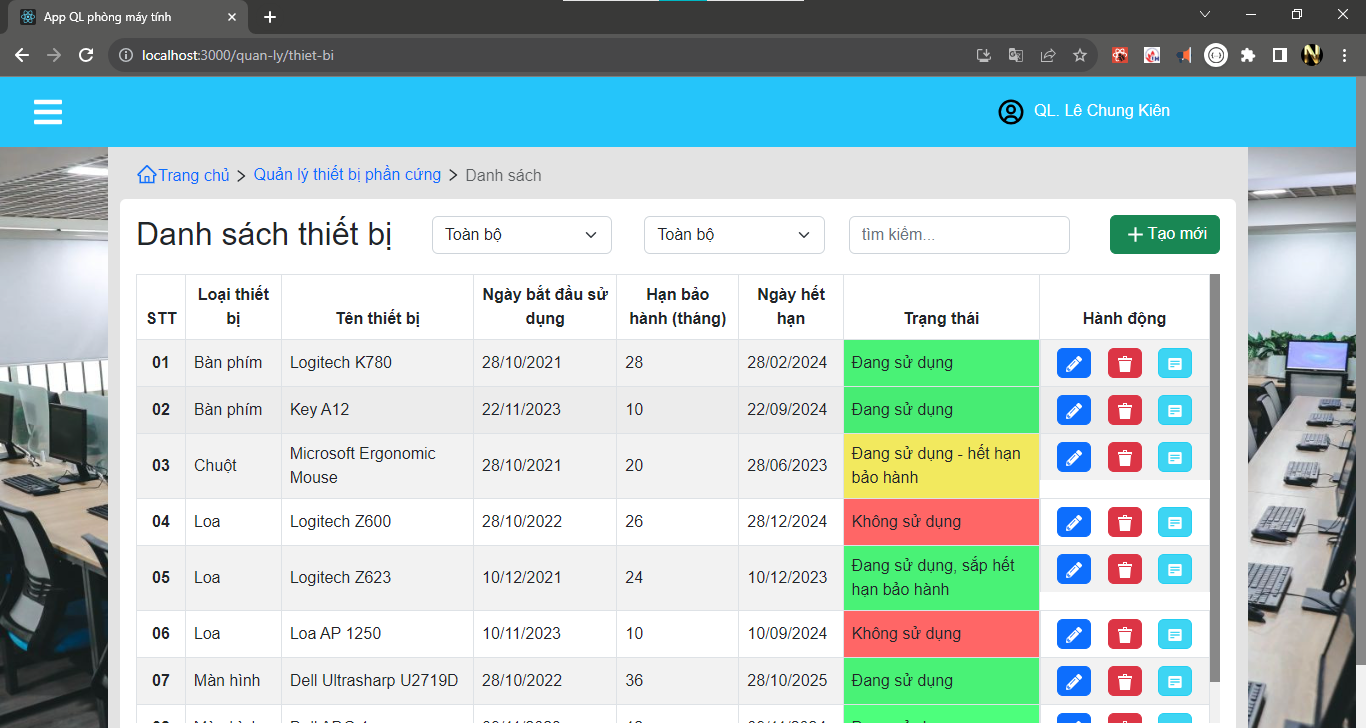
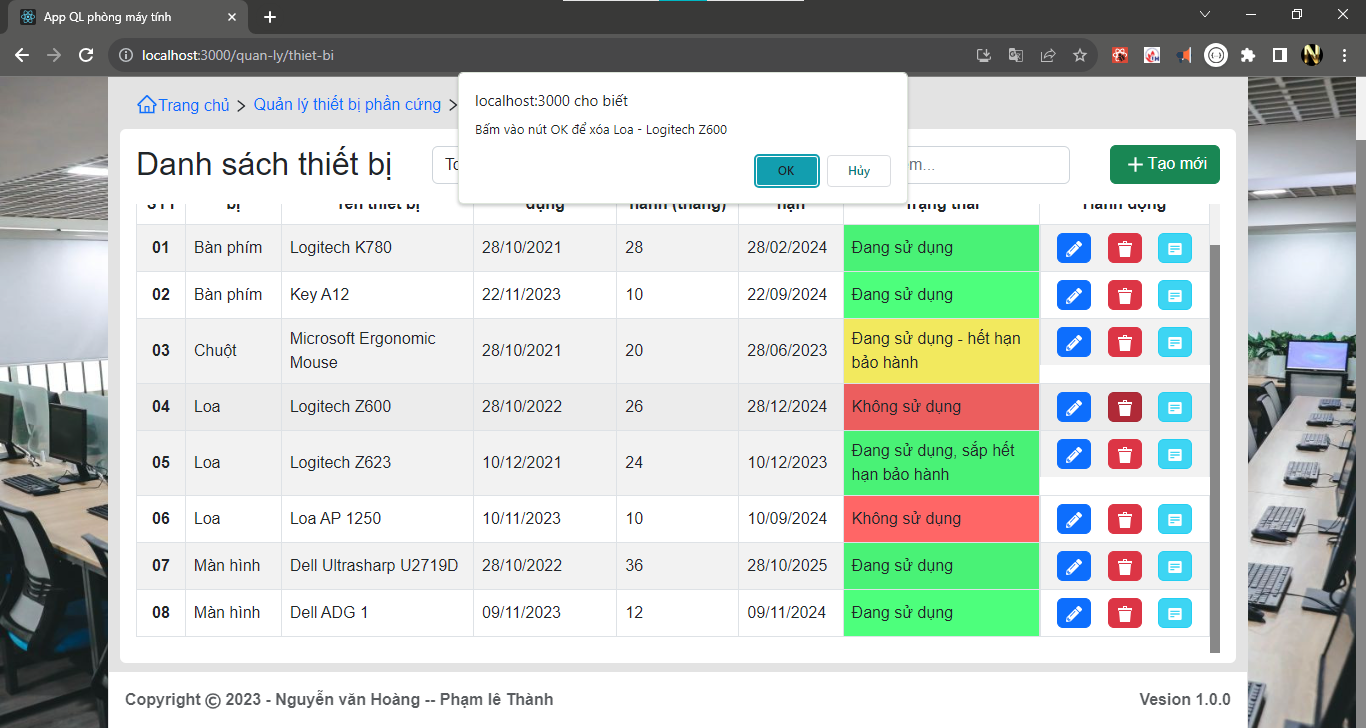
QL Thiet bi: del Tbi vs dataReducer - api (chua co)

diff --git a/src/pages/PageQuanLy/PageQLThietBi.jsx b/src/pages/PageQuanLy/PageQLThietBi.jsx
@@ -10,6 +10,7 @@ import NavTab from "../../components/common/NavTab/NavTab";
 import { NavLink } from "react-router-dom";
 import { useDispatch, useSelector } from "react-redux";
 import {
+  deleteThietBiApi,
   getAllLoaiThietBiApi,
   getAllThietBiApi,
   setValueSelectActionTBi,
@@ -44,9 +45,9 @@ export default function PageQLThietBi() {
 
   // handle
   //
-  const handleChangeLoaiTbi =(e) => {
-    dispatch(setValueSelectLoaiTbiAction(e.target.value))
-  }
+  const handleChangeLoaiTbi = (e) => {
+    dispatch(setValueSelectLoaiTbiAction(e.target.value));
+  };
   //
   const handleChangeSearch = (e) => {
     dispatch(setValueTxtSearchAction(e.target.value.trim()));
@@ -119,9 +120,7 @@ export default function PageQLThietBi() {
           {renderTrangThai()}
 
           <td style={{ display: "flex", justifyContent: "space-evenly" }}>
-            <NavLink
-              to={`/quan-ly/thiet-bi/update?id=${item.maThietBi}`}
-            >
+            <NavLink to={`/quan-ly/thiet-bi/update?id=${item.maThietBi}`}>
               <button
                 type="button"
                 className="btn btn-primary mx-2 px-2"
@@ -132,7 +131,16 @@ export default function PageQLThietBi() {
             </NavLink>
             <button
               onClick={() => {
-                alert(`Del -- ${item.id} -- dang cập nhật!`);
+                if (
+                  window.confirm(
+                    "Bấm vào nút OK để xóa " +
+                      item.loaiThietBi.tenLoai +
+                      " - " +
+                      item.tenThietBi
+                  )
+                ) {
+                  dispatch(deleteThietBiApi(item.maThietBi));
+                }
               }}
               type="button"
               className="btn btn-danger mx-2 px-2"
@@ -209,10 +217,7 @@ export default function PageQLThietBi() {
 
               {/* select - option */}
               <div className=" col-2 m-2 ">
-                <select
-                  className="form-select "
-                  onChange={handleChangeLoaiTbi}
-                >
+                <select className="form-select " onChange={handleChangeLoaiTbi}>
                   <option value="-1">Toàn bộ</option>
                   {renderLoaithietBi()}
                 </select>

diff --git a/src/redux/reducers/thietBiReducer.jsx b/src/redux/reducers/thietBiReducer.jsx
@@ -179,6 +179,23 @@ const thietBiReducer = createSlice({
         valueSelectLoaiTBi
       );
     },
+    deleteThietBiAction: (state, action) => {
+      let maXoa = action.payload;
+
+      let arrUpdate = state.arrThietBi.filter((item) => {
+        return item.maThietBi !== maXoa;
+      });
+      state.arrNhanVien = [...arrUpdate];
+      //
+      let { valueTxtSearch, arrThietBi, valSelect, valueSelectLoaiTBi } = state;
+
+      state.arrThietBiSearch = searchData(
+        arrThietBi,
+        valueTxtSearch,
+        valSelect,
+        valueSelectLoaiTBi
+      );
+    },
   },
 });
 // exp nay de sử dụng theo cách 2
@@ -190,11 +207,29 @@ export const {
   setValueSelectLoaiTbiAction,
   insertThietBiAction,
   updateThietBiAction,
+  deleteThietBiAction,
 } = thietBiReducer.actions;
 export default thietBiReducer.reducer;
 
 // -------------- Call Api -----------------
 
+export const deleteThietBiApi = (maXoa) => {
+  return async (dispatch) => {
+    try {
+      // await http.post("/XoaThietBiMay", maXoa);
+      console.log(
+        "Chưa có api xoa thietbi ( xóa 1 thiet bị xóa cả MaytinhThietbij liên quan )"
+      );
+
+      dispatch(deleteThietBiAction(maXoa));
+    } catch (error) {
+      console.log(
+        "🚀 ~ file: thietBiReducer.jsx:203 ~ returnasync ~ error:",
+        error
+      );
+    }
+  };
+};
 /**
  * edit 1 thiet bị api
  * @param {object} thietBi

diff --git a/README.md b/README.md
@@ -117,6 +117,7 @@
     - mayTinhReducer: chua toi uu duoc dataSearch()
     - QLMayTInh: finhs GUi select Phong may -> gui len redux = >datasearch -> checkTH(test) -> select trang thai -> redux -> dataSearch => test  
     - Form add mayTinh -> subMit -> api - > update -> del
+    - QLThietbi: "Chưa có api xoa thietbi ( xóa 1 thiet bị xóa cả MaytinhThietbij liên quan )
 
     - ComponentModalGhiChu: err check box trùng value (mavalue) - lấy thông tin - xác nhận gửi
         + api thong báo - gửi ghi chú cùng thietbi bị lỗi  lưu data
